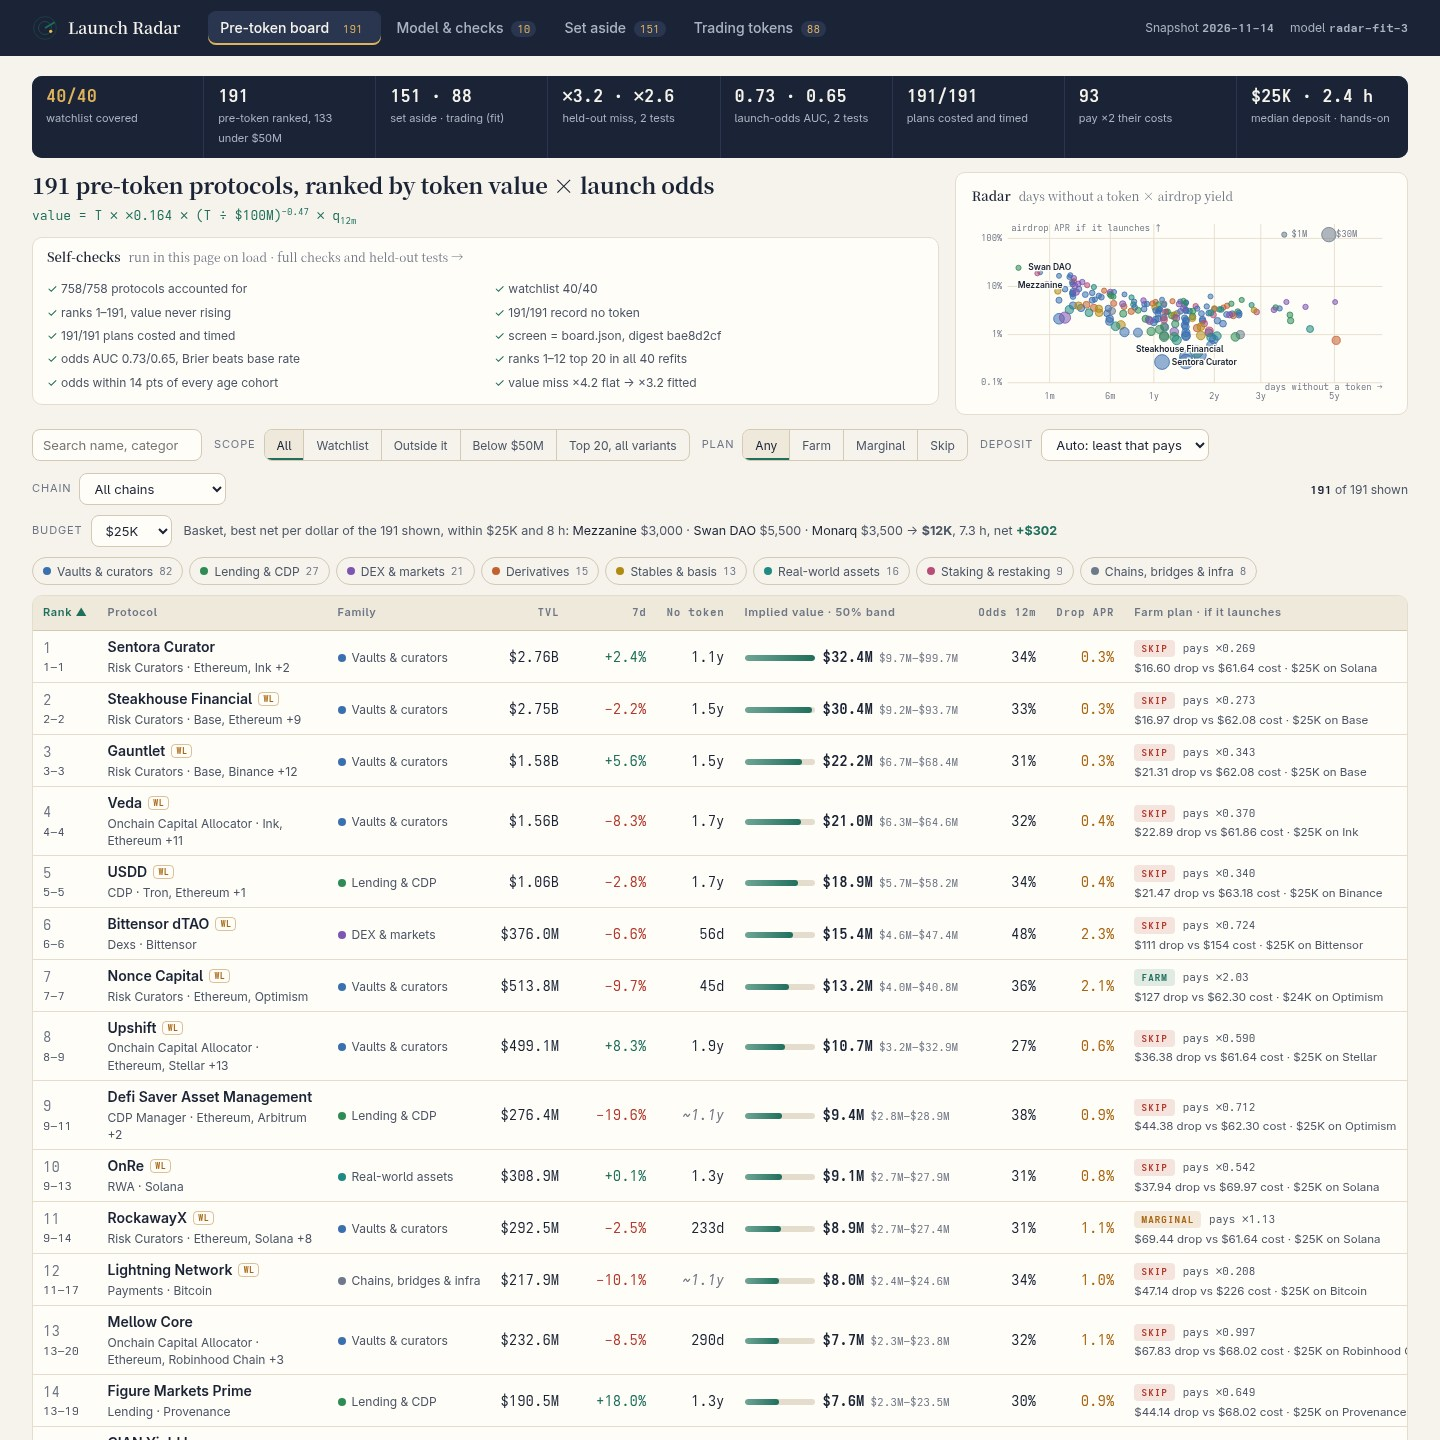
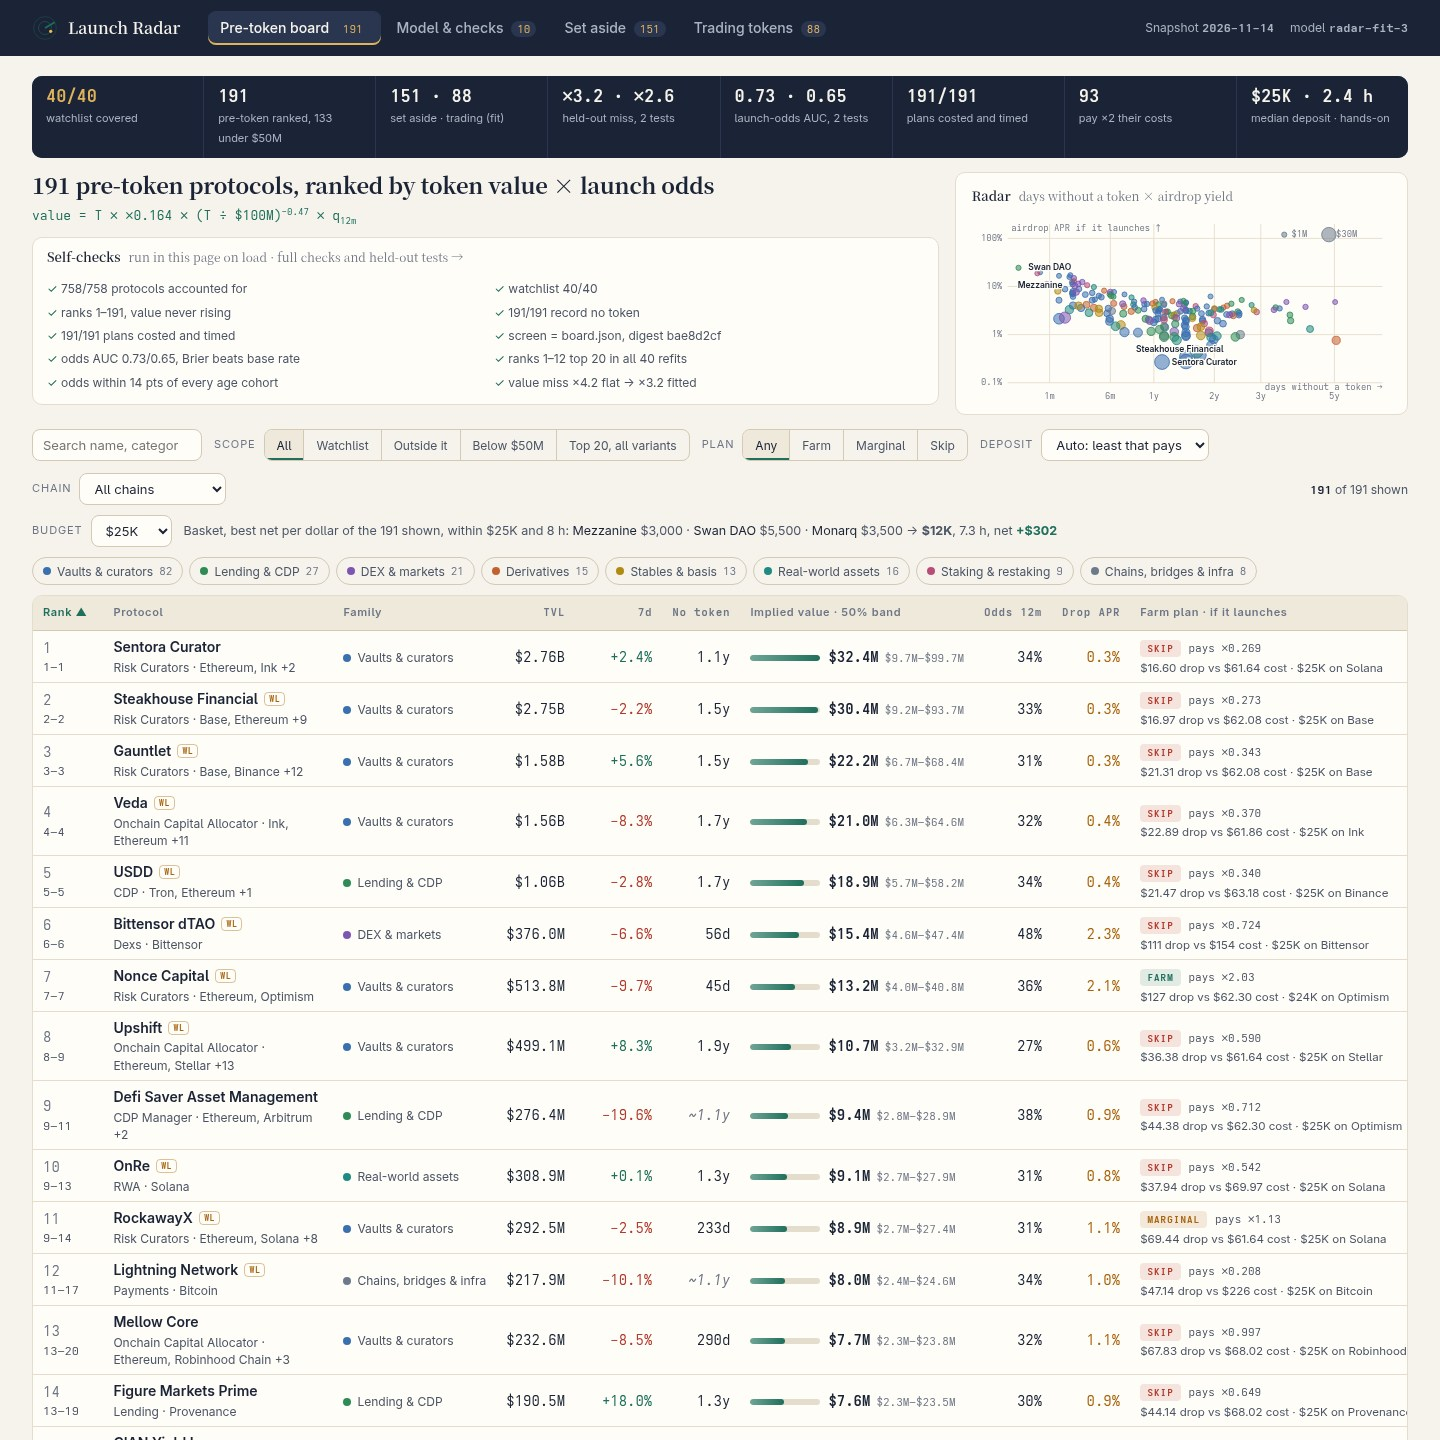
Fix: rank ranges no longer wrap for three-digit ranks (wider rank column)

diff --git a/dashboard/style.css b/dashboard/style.css
@@ -106,7 +106,8 @@ table{width:100%;border-collapse:collapse;}
 .board tbody tr:hover,.board tbody tr:focus{background:#1f6f5c0a;outline:none;}
 .board tbody tr:last-child td{border-bottom:0;}
 th.num,td.num{text-align:right;white-space:nowrap;}
-td.rank{color:var(--dim);width:44px;}
+td.rank{color:var(--dim);width:56px;}
+td.rank small{white-space:nowrap;}
 td.proto a,td.proto .nm{font-weight:600;}
 td.proto a:hover{color:var(--accent);}
 td.proto small{margin-top:1px;}
